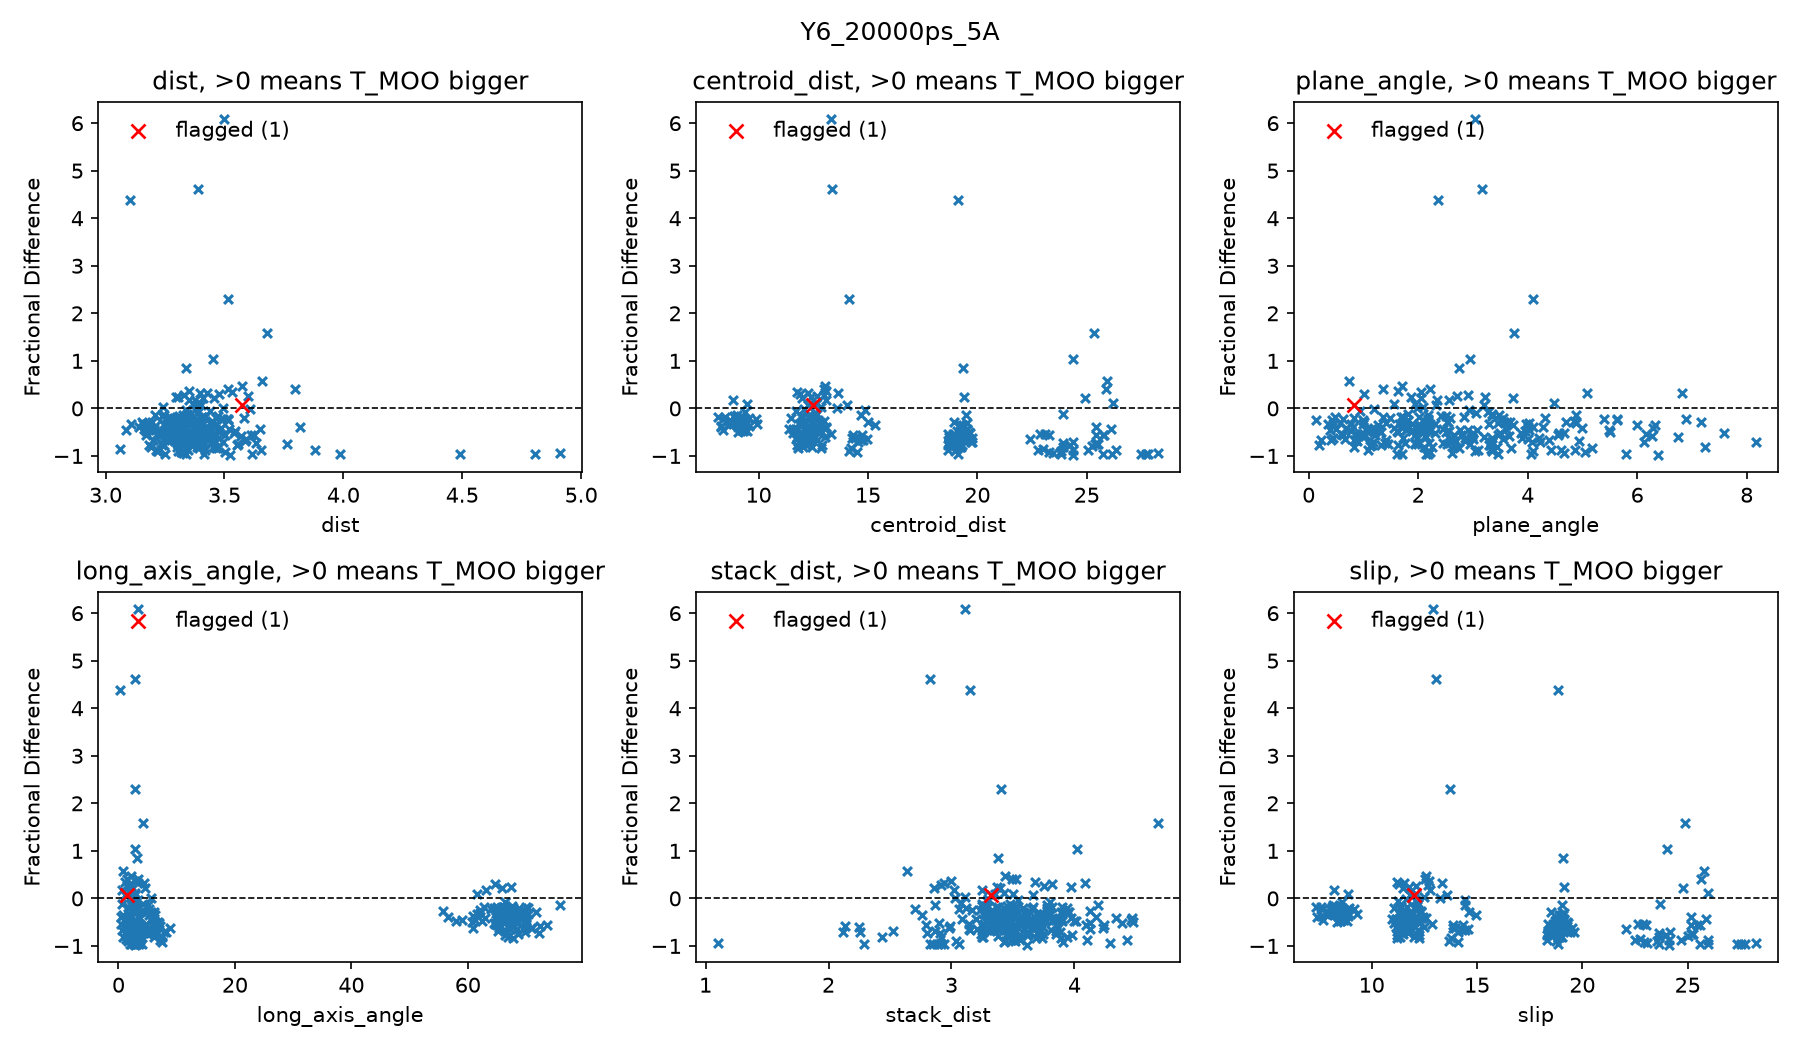
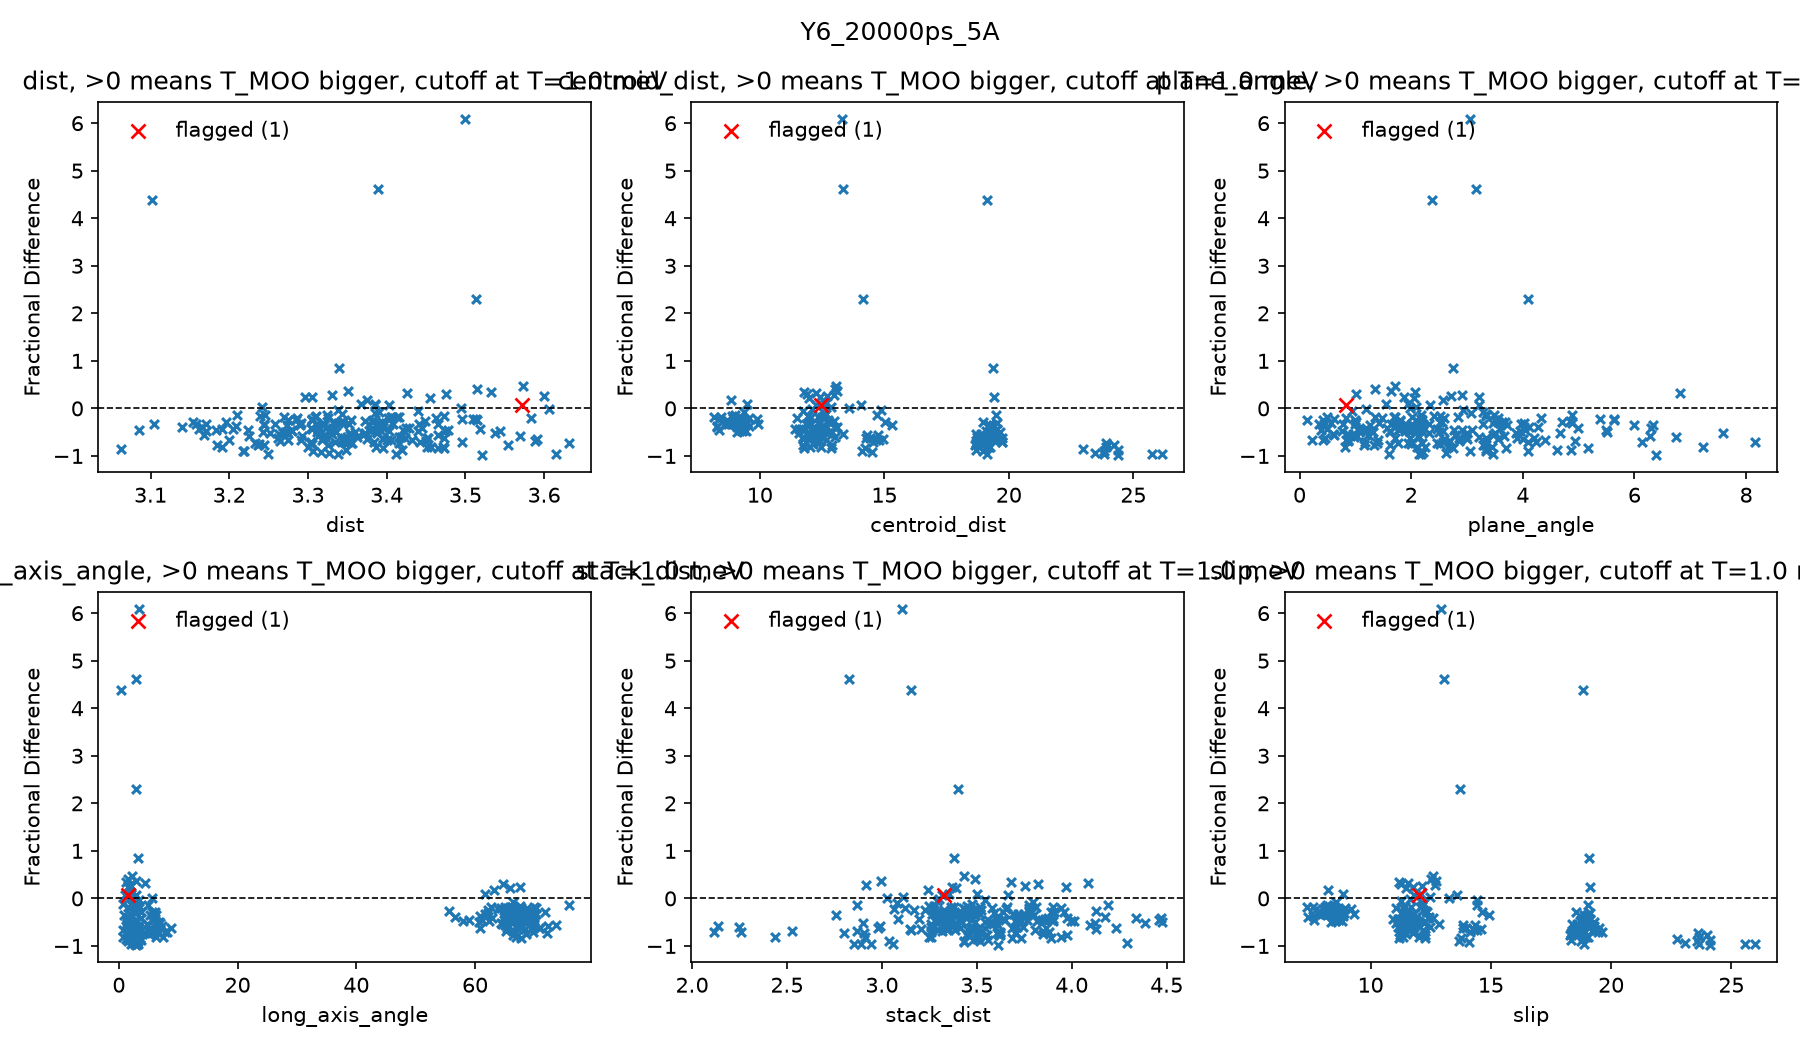
Changed inspection

diff --git a/common/inspect_Ts.py b/common/inspect_Ts.py
@@ -143,6 +143,7 @@ data = both.merge(feats.drop(columns='dist'), on=['init', 'fin', 'fin_lattice'],
 
 use_log = False #boolean, use log scale or not
 min_dist, max_dist = None, None    # e.g. 3.0, 4.0  (Å); None = no cut
+min_T=1.
 
 # dimers identified by (init, fin, fin_lattice)
 exclude = set()                    # dropped completely, e.g. {(101, 106, 23)}
@@ -160,14 +161,14 @@ ids = pd.Series(list(zip(data.init, data.fin, data.fin_lattice)), index=data.ind
 keep = ~ids.isin(exclude) #(~ means not, so keep gives a true/false column that False if we should exclude)
 if min_dist is not None: keep = keep & (data['dist'] >= min_dist)
 if max_dist is not None: keep = keep & (data['dist'] <= max_dist)
-#our filtering stage
-df = data[keep]
-
-ids_keep = ids[keep] #an array of the kept ids
-
 
 
 for carrier, title in zip(['h', 'e'], ['Holes', 'Electrons']):
+    keep_c = keep
+    if min_T is not None: keep = keep & (data[f'T{carrier}_CP_meV'].abs() >= min_T)
+    
+    df = data[keep_c]
+    ids_keep = ids[keep_c] #an array of the kept ids
     fig, axes = plt.subplots(2, 3, figsize=(12, 7))
     for ax, feature in zip(axes.flat, feature_cols):
     
@@ -197,7 +198,7 @@ for carrier, title in zip(['h', 'e'], ['Holes', 'Electrons']):
         scale = 'log' if use_log else 'linear'
         ax.set(xscale=scale, yscale='linear',
                 xlabel=feature, ylabel="Fractional Difference",
-                title=f"{feature}, >0 means T_MOO bigger")
+                title=f"{feature}, >0 means T_MOO bigger, cutoff at T={min_T} meV")
         ax.axhline(0, ls='--', c='k', lw=0.8)
         
 
